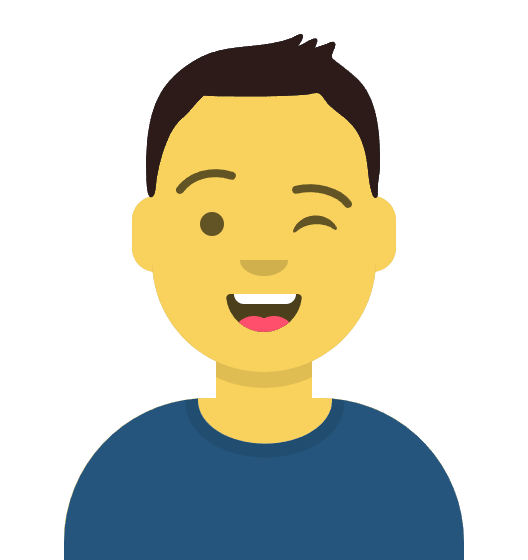
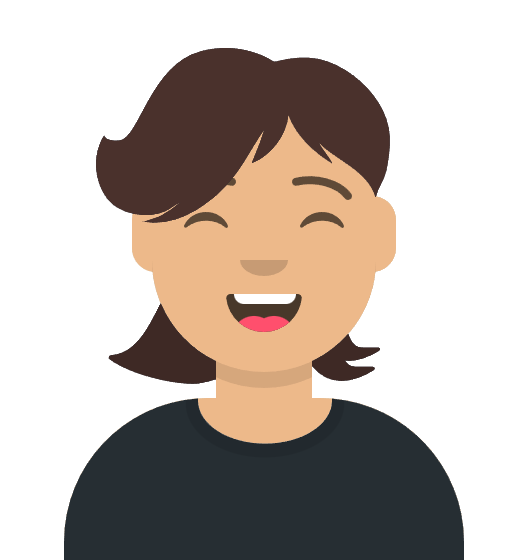
#45 Login page styling and handling exceptions

diff --git a/application/src/server/auth/authentication.ts b/application/src/server/auth/authentication.ts
@@ -35,8 +35,11 @@ export async function getAuthenticatedUserFromCookie() {
   }
   try {
     const result = await sdk.sessions().validateToken(sessionToken);
-    return await new NextUserRepository().findByProviderId(result.userId);
-  } catch {
+    const user = await new NextUserRepository().findByProviderId(result.userId);
+    if (!user) throw new UserNotProvidedError(result.userId);
+    return user;
+  } catch (e) {
+    if (e instanceof AuthenticationError) throw e;
     return null;
   }
 }
@@ -56,17 +59,26 @@ export async function getAuthenticatedUserFromAuthorizationHeader(
 }
 
 export async function validateToken(token?: string) {
-  if (!token) throw new Error("Access Token is missing!");
+  if (!token) throw new AuthenticationError("Access Token is missing!");
   const result = await sdk.sessions().validateToken(token);
   const user = await new NextUserRepository().findByProviderId(result.userId);
-  if (!user) throw new Error("User does not exists in BetKeeper");
+  if (!user) throw new UserNotProvidedError(result.userId);
   return user;
 }
 
-export function getAuthHeader() {
+export async function getAuthHeader() {
   return Buffer.from(`${projectId}:${apiSecret}`).toString("base64");
 }
 
-export function getBackendApi() {
+export async function getBackendApi() {
   return backendApi;
+}
+
+export class AuthenticationError extends Error {}
+
+export class UserNotProvidedError extends AuthenticationError {
+  constructor(public providerId: string) {
+    super(`Provided UserId=${providerId} is not allowed to use BetKeeper`);
+    this.name = "UserNotProvided";
+  }
 }

diff --git a/application/src/app/global.css b/application/src/app/global.css
@@ -22,6 +22,41 @@
   --error: #c3241f;
   --error-hovered: #dd2922;
 }
+.app-logo {
+  max-width: 300px;
+}
+.cb-container {
+  box-shadow: none !important;
+  background-color: var(--surface) !important;
+  padding: 8px 16px 16px 16px !important;
+  border-radius: 16px;
+  border: 2px solid transparent !important;
+  position: relative;
+  background-clip: padding-box !important;
+  --cb-secondary-link-color: #fdd037;
+  --cb-primary-color: #fdd037;
+  --cb-primary-color-hover: #fdd95f;
+  --cb-button-text-primary-color: #15161a;
+  --cb-primary-color-disabled: #626262;
+
+  &::before {
+    content: "";
+    position: absolute;
+    top: 0;
+    right: 0;
+    bottom: 0;
+    left: 0;
+    z-index: -1;
+    margin: -2px;
+    background: linear-gradient(
+      to bottom,
+      hsla(60, 0%, 45%, 0.2),
+      hsl(60, 0%, 45%)
+    );
+    opacity: 0.2;
+    border-radius: inherit;
+  }
+}
 @media (prefers-color-scheme: dark) {
   :root {
     --base-text: #fcfcf7;
@@ -147,6 +182,7 @@ body {
   border-radius: 8px;
 }
 
+.cb-container .cb-primary-button,
 .btn {
   min-width: 100px;
   cursor: pointer;
@@ -161,6 +197,7 @@ body {
   outline: 1px solid var(--primary);
 }
 
+.cb-container .cb-primary-button,
 .btn.primary {
   background-color: var(--primary);
 }
@@ -173,7 +210,12 @@ body {
 .btn.primary:hover {
   background-color: var(--primary-hovered);
 }
+.cb-container .cb-input {
+  margin-top: unset;
+  border: unset;
+}
 
+.cb-container .cb-input,
 .ip {
   background-color: var(--container);
   color: var(--base-text);

diff --git a/application/src/features/users/actions.ts b/application/src/features/users/actions.ts
@@ -33,7 +33,7 @@ export async function getPedingUserRequests(): Promise<
     );
     const requesterMap = new Map<string, UserType>();
     const requesterPromises = await Promise.allSettled(
-      requesterIdSet.values().map((userId) => userRepository.findById(userId)),
+      [...requesterIdSet].map((userId) => userRepository.findById(userId)),
     );
 
     requesterPromises.forEach((promise) => {
@@ -191,10 +191,10 @@ export async function getActiveUser() {
 }
 
 async function createCorbadoUser(userEmail: string, fullName: string) {
-  const res = await fetch(`${getBackendApi()}/v2/users`, {
+  const res = await fetch(`${await getBackendApi()}/v2/users`, {
     method: "POST",
     headers: {
-      Authorization: `Basic ${getAuthHeader()}`,
+      Authorization: `Basic ${await getAuthHeader()}`,
       "Content-Type": "application/json",
     },
     body: `{"fullName":"${fullName}", "status":"active"}`,
@@ -206,7 +206,7 @@ async function createCorbadoUser(userEmail: string, fullName: string) {
     {
       method: "POST",
       headers: {
-        Authorization: `Basic ${getAuthHeader()}`,
+        Authorization: `Basic ${await getAuthHeader()}`,
         "Content-Type": "application/json",
       },
       body: `{"identifierType":"email","identifierValue":"${userEmail}","status":"verified"}`,

diff --git a/application/src/app/page.tsx b/application/src/app/page.tsx
@@ -1,20 +1,17 @@
 /** biome-ignore-all lint/a11y/noSvgWithoutTitle: <explanation> */
+/** biome-ignore-all lint/performance/noImgElement: <explanation> */
 
 import { getAuthenticatedUserFromCookie } from "@app/server/auth/authentication";
 import { Button } from "@app/ui/button/Button";
 import { IconButton } from "@app/ui/button/IconButton";
 import Link from "next/link";
+import { redirect } from "next/navigation";
 
 export default async function Index() {
   const user = await getAuthenticatedUserFromCookie();
 
-  if (!user)
-    return <div>Failed to load application. Not found active user.</div>;
-  /*
-   * Replace the elements below with your own.
-   *
-   * Note: The corresponding styles are in the ./index.tailwind file.
-   */
+  if (!user) redirect("/login");
+
   return (
     <div>
       <header className="flex justify-between items-center mx-4 py-6">
@@ -22,7 +19,7 @@ export default async function Index() {
           <Link href="/profile">
             <img
               className="avatar h-[48px]"
-              src={user.avatarUrl}
+              src={user.avatarUrl ?? "/avatars/avatar_00.png"}
               alt="Profile avatar"
             />
           </Link>

diff --git a/domain/tests/mocks/InMemoryBetQueryService.ts b/domain/tests/mocks/InMemoryBetQueryService.ts
@@ -50,18 +50,6 @@ export class InMemoryBetQueryService implements IBetQueryService {
       results = results.filter((br) => br.createdAt <= filters.toDate!);
     }
 
-    if (filters.dueDateFrom) {
-      results = results.filter(
-        (br) => br.dueDate && br.dueDate >= filters.dueDateFrom!,
-      );
-    }
-
-    if (filters.dueDateTo) {
-      results = results.filter(
-        (br) => br.dueDate && br.dueDate <= filters.dueDateTo!,
-      );
-    }
-
     // Apply limit
     if (filters.limit && filters.limit > 0) {
       results = results.slice(0, filters.limit);
@@ -163,22 +151,6 @@ export class InMemoryBetQueryService implements IBetQueryService {
     if (filters.toDate) {
       results = results.filter(
         (agg) => agg.betRequest.createdAt <= filters.toDate!,
-      );
-    }
-
-    if (filters.dueDateFrom) {
-      results = results.filter(
-        (agg) =>
-          agg.betRequest.dueDate &&
-          agg.betRequest.dueDate >= filters.dueDateFrom!,
-      );
-    }
-
-    if (filters.dueDateTo) {
-      results = results.filter(
-        (agg) =>
-          agg.betRequest.dueDate &&
-          agg.betRequest.dueDate <= filters.dueDateTo!,
       );
     }
 

diff --git a/application/src/app/login/Login.tsx b/application/src/app/login/Login.tsx
@@ -1,3 +1,4 @@
+/** biome-ignore-all lint/performance/noImgElement: <explanation> */
 "use client";
 import { CorbadoAuth } from "@corbado/react";
 import type { AppRouterInstance } from "next/dist/shared/lib/app-router-context.shared-runtime";
@@ -10,8 +11,12 @@ async function onSignIn(router: AppRouterInstance) {
 export function Login() {
   const router = useRouter();
   return (
-    <div>
-      <h1>Signup</h1>
+    <div className="flex flex-col gap-2 justify-center h-[70vh] items-center">
+      <img
+        className="app-logo"
+        src="/BetKeeper_Logo.png"
+        alt="Application Logo"
+      />
       <CorbadoAuth
         onLoggedIn={() => {
           onSignIn(router);

diff --git a/application/specs/UserRepo.integration.spec.tsx b/application/specs/UserRepo.integration.spec.tsx
@@ -1,3 +1,4 @@
+import { AuthorizedUser } from "@app/lib/user/AuthorizedUser";
 import NextUserRepository from "@app/server/repositories/NextUserRepository";
 import { Email, User } from "@domain/user";
 
@@ -5,7 +6,7 @@ describe("UserRepository", () => {
   const repository = new NextUserRepository();
   it("should pass", async () => {
     const email = "tester@email.com";
-    await repository.save(new User(new Email(email), "John", "Doe"));
+    await repository.save(new AuthorizedUser(new Email(email), "John", "Doe"));
 
     const result = await repository.findByEmail(new Email(email));
     expect(result?.email.value).toBe(email);

diff --git a/application/src/features/users/components/UserComponent.tsx b/application/src/features/users/components/UserComponent.tsx
@@ -1,3 +1,4 @@
+/** biome-ignore-all lint/performance/noImgElement: <explanation> */
 "use client";
 import { suspendUser, toggleUserStatus } from "@app/features/users/actions";
 import { IconButton } from "@app/ui/button/IconButton";
@@ -34,7 +35,7 @@ export function UserComponent({ userObject }: Props) {
       <div className="user-item__details flex gap-2">
         <img
           className="w-[48px] avatar"
-          src={user?.avatarUrl || "/avatars/avatar_01.png"}
+          src={user?.avatarUrl || "/avatars/avatar_00.png"}
           alt="User avatar"
         />
         <div className="flex flex-col">

diff --git a/application/src/app/profile/page.tsx b/application/src/app/profile/page.tsx
@@ -17,7 +17,9 @@ export default async function ProfilePage() {
     <PageWrapper>
       <ProfilePageHeader />
       <div className="flex flex-col items-center">
-        <ProfileImage activeImage={user.avatarUrl || ""} />
+        <ProfileImage
+          activeImage={user.avatarUrl || "/avatars/avatar_00.png"}
+        />
         <div className="flex flex-col items-center my-2">
           <h2 className="text-xl m-none">{user.name}</h2>
           <span className="text-gray text-sm">{user.email.value}</span>

diff --git a/application/src/app/error.tsx b/application/src/app/error.tsx
@@ -11,6 +11,15 @@ export default function Error({ error }: ErrorPageType) {
   useEffect(() => {
     console.log(error);
   }, [error]);
+
+  if (error.name === "UserNotProvided")
+    return (
+      <PageWrapper>
+        <h1 className="mt-6">Your account is not allowed to use BetKeeper</h1>
+        <p>Try to contact application admin to grant access to application.</p>
+      </PageWrapper>
+    );
+
   return (
     <PageWrapper>
       <h1 className="my-4">Unexpeced error occured</h1>

diff --git a/application/src/server/repositories/NextFriendListRepository.ts b/application/src/server/repositories/NextFriendListRepository.ts
@@ -34,12 +34,11 @@ export class NextFriendListRepository implements IFriendListRepository {
       }
     });
 
-    const friendsIds = new Set(
+    const friendsIdSet = new Set(
       friends.flatMap((friend) => [friend.senderId, friend.receiverId]),
-    )
-      .values()
-      .filter((id) => id !== userId)
-      .toArray();
+    );
+
+    const friendsIds = [...friendsIdSet].filter((id: string) => id !== userId);
 
     return UserFriendList.reconstitute(
       userId,

diff --git a/application/next.config.js b/application/next.config.js
@@ -10,6 +10,9 @@ console.log(`*** BetKeeper v${APP_VERSION} ***`);
 console.log(`Using SQLite file: ${DATABASE_URL}\n`);
 
 const nextConfig = {
+  // eslint: {
+  //   ignoreDuiringBuilds: true,
+  // },
   // Use this to set Nx-specific options
   // See: https://nx.dev/recipes/next/next-config-setup
   nx: {},
@@ -20,4 +23,8 @@ const plugins = [
   // withNx,
 ];
 
-module.exports = {};
+module.exports = {
+  typescript: {
+    ignoreBuildErrors: true,
+  },
+};
